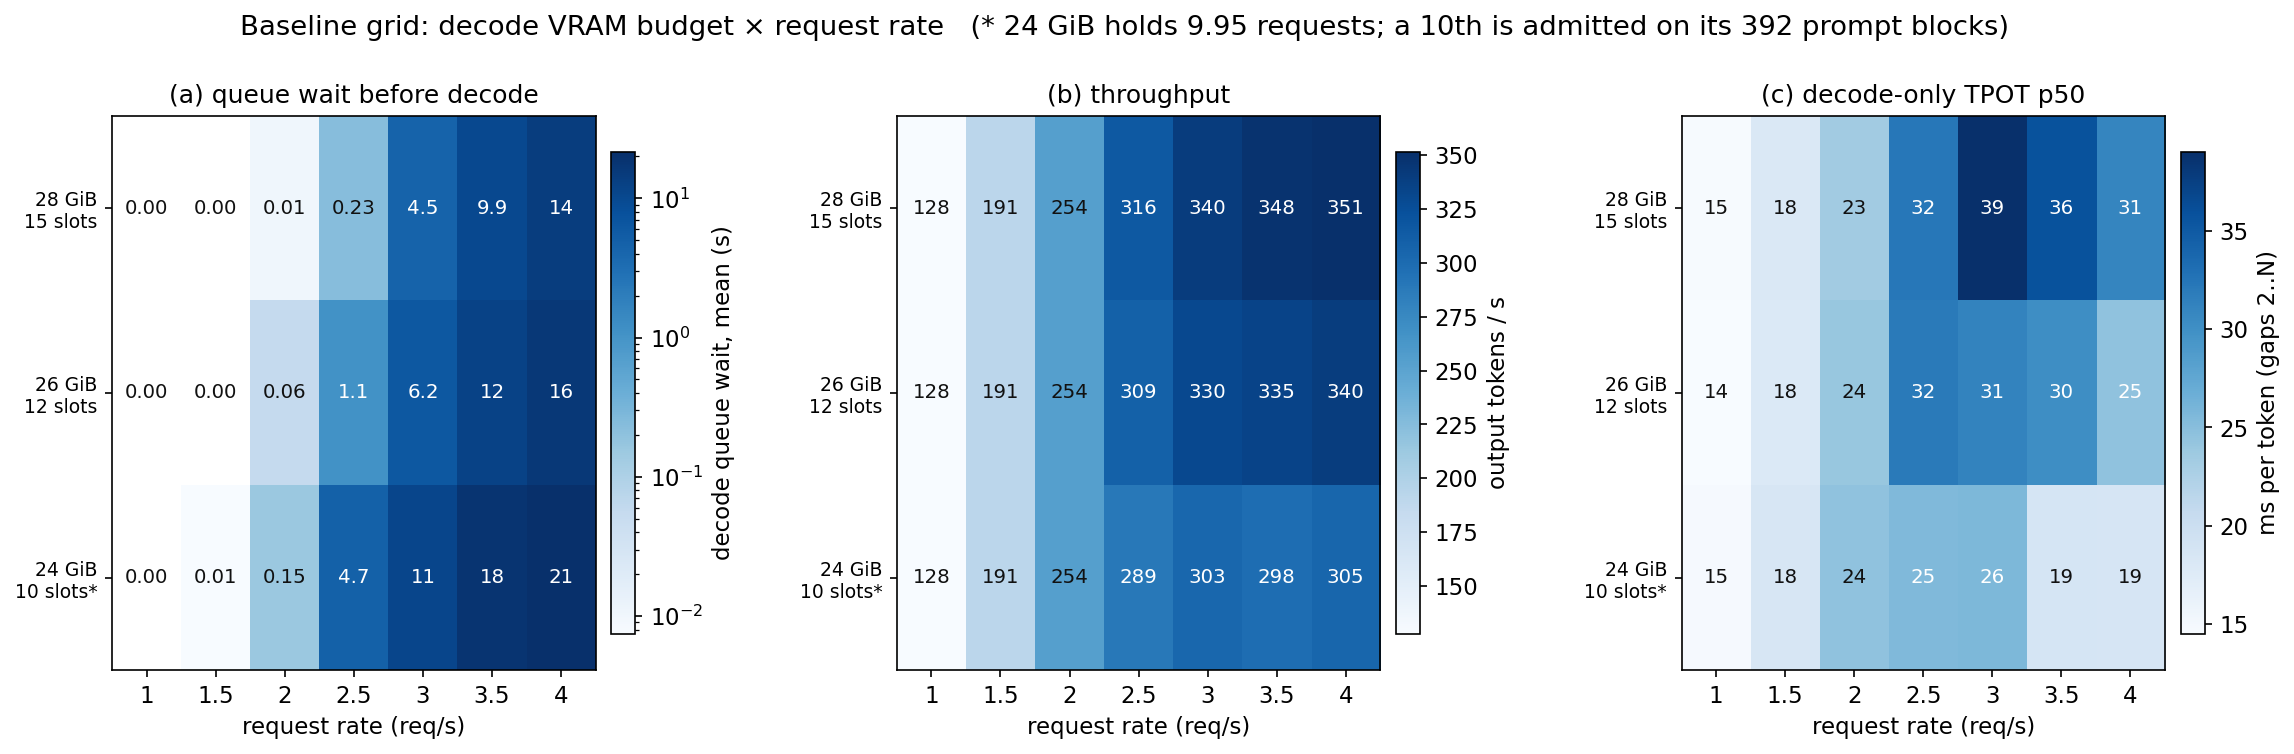
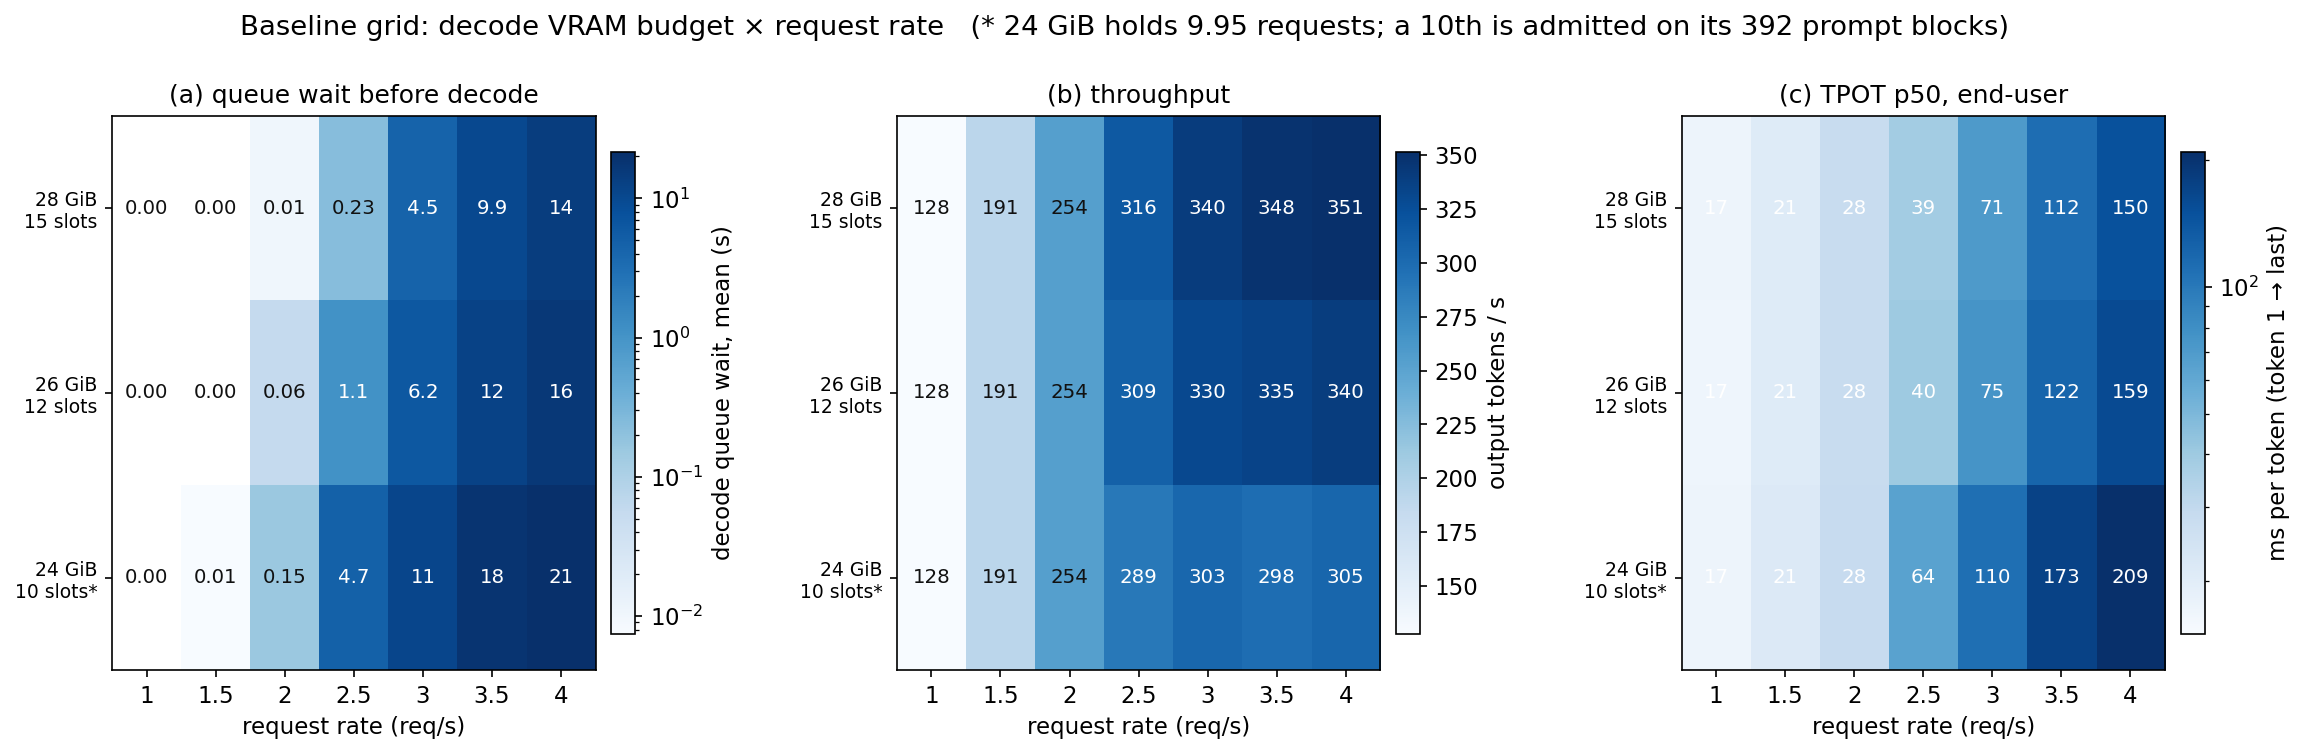
KV-slot report: TPOT in figures and text = end-user (token 1 → last); decode-only kept for the mechanism only

diff --git a/scripts/plots/plot_kv_grid.py b/scripts/plots/plot_kv_grid.py
@@ -64,12 +64,16 @@ def val(b, q, col):
 def fig_3d():
     panels = [("decode_queue_ms", 1e-3, "mean wait for a slot (s)", "(a) decode queue wait", cm.Blues),
               ("tok_per_s", 1, "output tokens / s", "(b) throughput", cm.Greens),
-              ("tpot2_p50_ms", 1, "ms per token (gaps 2..N)", "(c) decode-only TPOT p50", cm.Oranges)]
+              ("tpot_p50_ms", 1, "ms per token (token 1 → last, log)", "(c) TPOT p50, end-user", cm.Oranges)]
     fig = plt.figure(figsize=(19, 6.4))
     B, Q = np.meshgrid(BUDGETS, QPS_COMMON, indexing="ij")
     for k, (col, sc, zl, title, cmap) in enumerate(panels):
         ax = fig.add_subplot(1, 3, k + 1, projection="3d")
         Z = np.array([[val(b, q, col) * sc for q in QPS_COMMON] for b in BUDGETS])
+        if col == "tpot_p50_ms":
+            Z = np.log10(Z)
+            ax.set_zticks(np.log10([20, 50, 100, 200]))
+            ax.set_zticklabels(["20", "50", "100", "200"])
         ax.plot_surface(B, Q, Z, cmap=cmap, edgecolor="#333", lw=0.6, alpha=0.45 if k == 0 else 0.9,
                         rstride=1, cstride=1)
         if k == 0:
@@ -102,6 +106,8 @@ def fig_3d():
         for b in BUDGETS:
             for q in QPS_ALL:
                 z = val(b, q, col) * sc
+                if col == "tpot_p50_ms":
+                    z = np.log10(z)
                 if not np.isnan(z):
                     ax.scatter([b], [q], [z], color=C_B[b], s=22, depthshade=False)
         ax.set_xlabel("VRAM budget (GiB)", labelpad=8)
@@ -122,13 +128,15 @@ def fig_heat(contours=False):
     panels = [("decode_queue_ms", 1e-3, "decode queue wait, mean (s)", "(a) queue wait before decode",
                True, [0.05, 0.5, 2, 5, 10]),
               ("tok_per_s", 1, "output tokens / s", "(b) throughput", False, [200, 250, 300, 340]),
-              ("tpot2_p50_ms", 1, "ms per token (gaps 2..N)", "(c) decode-only TPOT p50", False,
-               [20, 25, 30, 35])]
+              ("tpot_p50_ms", 1, "ms per token (token 1 → last)", "(c) TPOT p50, end-user", True,
+               [20, 50, 100])]
     fig, axes = plt.subplots(1, 3, figsize=(18, 4.8))
     fig.subplots_adjust(wspace=0.5)
     for ax, (col, sc, cb, title, logc, levels) in zip(axes, panels):
         Z = np.array([[val(b, q, col) * sc for q in QPS_COMMON] for b in BUDGETS])
         norm = LogNorm(vmin=max(0.005, np.nanmin(Z[Z > 0])), vmax=np.nanmax(Z)) if logc else None
+        if col == "tpot_p50_ms":
+            norm = LogNorm(vmin=15, vmax=np.nanmax(Z))
         im = ax.imshow(Z, origin="lower", aspect="auto", cmap="Blues", norm=norm,
                        extent=[-0.5, len(QPS_COMMON) - 0.5, -0.5, len(BUDGETS) - 0.5])
         for i, b in enumerate(BUDGETS):

diff --git a/reports/report_kv_slots.md b/reports/report_kv_slots.md
@@ -37,8 +37,10 @@ fp8) and E5 (re-running the grid with them) are not part of this report.
 
 Metric conventions: *decode queue wait* = vLLM's `request_queue_time` on the decode
 engine (arrival at its scheduler → admitted); *capacity* = the highest rate with mean
-queue wait < 50 ms and no failed request; *tpot2* = per-token time over gaps 2..N (gap 1
-holds the decode queue + KV load with a forwarded token #1); *residence* = admitted →
+queue wait < 50 ms and no failed request; *TPOT* = what the user sees: the mean gap from
+token #1 to the last token (token #1 is forwarded from the prefill engine, so the first
+gap holds the decode queue + KV load); *decode-only TPOT* (tpot2, used only when the
+mechanism in §4.3 is discussed) = the same over gaps 2..N; *residence* = admitted →
 last token. All 24 cells are `ok` (one cell was rerun after a router keep-alive race lost
 a single request; the clean rerun is reported).
 
@@ -104,7 +106,8 @@ options reach it is E4's question.
 ![heatmaps](../figures/kv_grid_heat.png)
 
 Each cell is one launch and one 300-request run: (a) mean decode queue wait (log colour
-scale), (b) output tokens per second, (c) decode-only per-token time. The same numbers:
+scale), (b) output tokens per second, (c) end-user TPOT (log colour scale). The same
+numbers:
 
 | req/s | 1 | 1.5 | 2 | 2.25 | 2.5 | 2.75 | 3 | 3.5 | 4 |
 |---|---|---|---|---|---|---|---|---|---|
@@ -117,9 +120,11 @@ scale), (b) output tokens per second, (c) decode-only per-token time. The same n
   step too high.
 - **Saturation throughput** ≈ 2.3 / 2.65 / 2.7 req/s: +50% slots buys +17%.
 - **While nobody waits, the budget is irrelevant:** at 1 req/s all three budgets give
-  128 tok/s, 0 ms queue and the same 14.5–14.7 ms per token.
-- **Once requests queue, per-token time rises with budget**, not falls: tpot2 at 3 req/s is 25.7 /
-  31.2 / 39.0 ms at 24 / 26 / 28 GiB — bigger batches and more stalls (§4.3).
+  128 tok/s, 0 ms queue and the same 17 ms TPOT.
+- **Once requests queue, TPOT follows the queue:** at 3 req/s it is 110 / 75 / 71 ms at
+  24 / 26 / 28 GiB, because the first token-gap carries the decode queue wait. The
+  decode-only part moves the other way (26 / 31 / 39 ms): bigger batches and more load
+  stalls per request — §4.3.
 - **Preemptions:** 1–35 per cell at 24 GiB, none at 26 / 28 GiB.
 
 The same three quantities as surfaces. In (a) height is the mean wait for a slot: the
@@ -128,8 +133,8 @@ surface join the (budget, rate) points with the same mean wait — 0.05 s (the c
 line), 0.5, 2, 5 and 10 s, interpolated between the measured cells; their slope says
 how much rate one GiB buys: about 0.25 req/s per 2 GiB along the 0.05 s line, less along
 the 10 s line. (b) rises with rate until it flattens at each budget's saturation
-throughput; (c) is flat while nobody waits and then rises with budget, not with rate
-(§4.3 explains why).
+throughput; (c) is flat while nobody waits and then climbs with rate, less steeply at
+the larger budgets.
 
 ![3D view](../figures/kv_grid_3d.png)
 
@@ -213,8 +218,9 @@ chunk by chunk.
 
 Two consequences visible in the grid: (i) more slots → more admissions during a
 residence → longer residence, which is why 26 → 28 GiB barely moves saturation
-throughput; (ii) at 4 req/s the 28 GiB engine is *slower per token* than the 24 GiB one
-(31 vs 19 ms), although both are saturated:
+throughput; (ii) at 4 req/s the 28 GiB engine is *slower per token once decoding* than
+the 24 GiB one (decode-only TPOT 31 vs 19 ms; the end-user TPOT still favours 28 GiB,
+150 vs 209 ms, because its queue is 7 s shorter), although both are saturated:
 
 | 4 req/s | 24 GiB | 28 GiB |
 |---|---|---|
